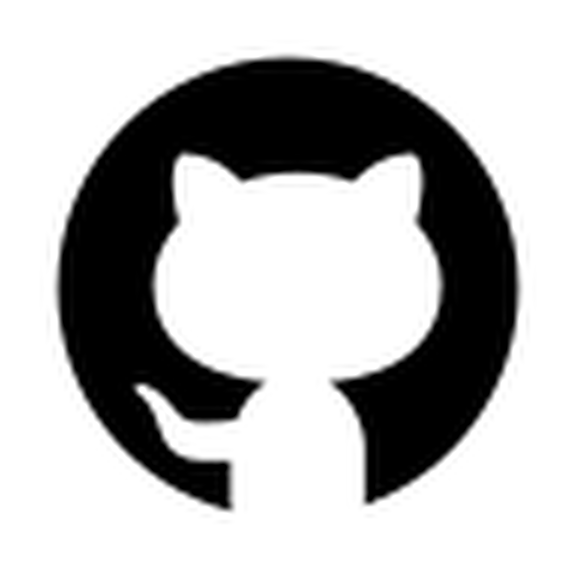
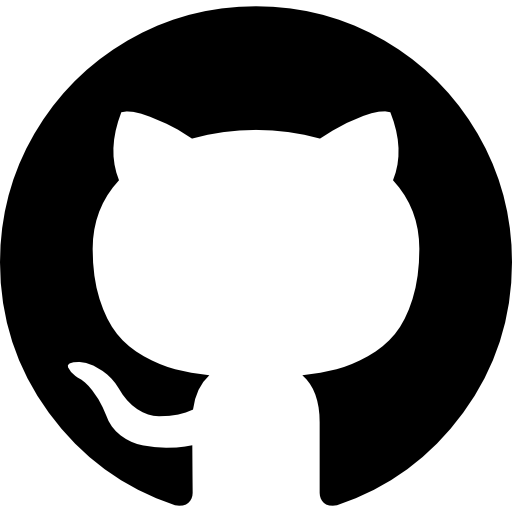
cambiato colore navbar in nero,cambiati loghi, css

diff --git a/index.html b/index.html
@@ -17,7 +17,7 @@
   <body>
 
 
-    <nav class="navbar navbar-expand-lg bg-body-tertiarynavbar-light bg-light fixed-top">
+    <nav class="navbar navbar-expand-lg bg-body-tertiarynavbar-light bg-dark fixed-top">
       <div class="container">
         <a class="navbar-brand" href="#"><img class="logo" src="logo.jpg" alt="Logo" width="50px"></a>
         <button class="navbar-toggler" type="button" data-bs-toggle="collapse" data-bs-target="#navbarNav" aria-controls="navbarNav" aria-expanded="false" aria-label="Toggle navigation">
@@ -26,7 +26,7 @@
         <div class="collapse navbar-collapse justify-content-end" id="navbarNav">
           <ul class="navbar-nav">
             <li class="nav-item">
-              <a class="nav-link active" aria-current="page" href="#">Home</a>
+              <a class="nav-link" aria-current="page" href="#">Home</a>
             </li>
             <li class="nav-item">
               <a class="nav-link" href="#">Info</a>
@@ -64,12 +64,12 @@
 <section class="companies">
   <div class="container text-center">
     <div class="row g-5">
-      <div class="col-md-2"><img src="airbnb.png" alt="Airbnb" class="img-fluid"></div>
-      <div class="col-md-2"><img src="paypal.png" alt="Paypal" class="img-fluid"></div>
-      <div class="col-md-2"><img src="amazon.png" alt="Amazon" class="img-fluid"></div>
-      <div class="col-md-2"><img src="instagram.png" alt="Instagram" class="img-fluid"></div>
-      <div class="col-md-2"><img src="github.png" alt="Github" class="img-fluid"></div>
-      <div class="col-md-2"><img src="youtube.png" alt="Youtube" class="img-fluid"></div>
+      <div class="col-md-2"><a href="www.instagram.com/francesco.tannoia/"><img src="instagram.png" alt="Instagram" class="img-fluid"></a></div>
+      <div class="col-md-2"><a href="https://github.com/Franskibot"><img src="github.png" alt="Github" class="img-fluid"></a></div>
+      <div class="col-md-2"><a href="https://twitter.com/Franskibot"><img src="x.png" alt="Twitter" class="img-fluid"></a></div>
+      <div class="col-md-2"><a href="https://www.linkedin.com/in/francesco-tannoia-75609b298/"><img src="linkedin.png" alt="Linkedin" class="img-fluid"></a></div>
+      <div class="col-md-2"><a href="https://www.youtube.com"><img src="youtube.png" alt="Youtube" class="img-fluid"></a></div>
+      <div class="col-md-2"><a href="https://www.facebook.com/profile.php?id=100077377793407"><img src="facebook.png" alt="Facebook" class="img-fluid"></a></div>
     </div>
   </div>
 
@@ -98,7 +98,10 @@
 <section class="icons">
 <div class="container">
   <div class="row">
-    
+    <div class="col-md"><div class="icon gradient mb-4"></div></div>
+    <div class="col-md"><div class="icon gradient mb-4"></div>
+    <div class="col-md"><div class="icon gradient mb-4"></div>
+    <div class="col-md"><div class="icon gradient mb-4"></div>
   </div>
 </div>
 </section>

diff --git a/style.css b/style.css
@@ -19,11 +19,11 @@ body {
 }
 
 #pianoforte {
-  width: 700px;
+  width: 100%;
 }
 
 #pianoforte2 {
-  width: 300px;
+  width: 50%;
 }
 
 .feature{
@@ -37,3 +37,10 @@ body {
   line-height: 1.5rem;
   margin-bottom: 1rem;
 }
+.navbar-nav .nav-link {
+  color: #ffffff;
+ }
+
+.navbar-toggler-icon {
+  color: #ffffff;
+ }
